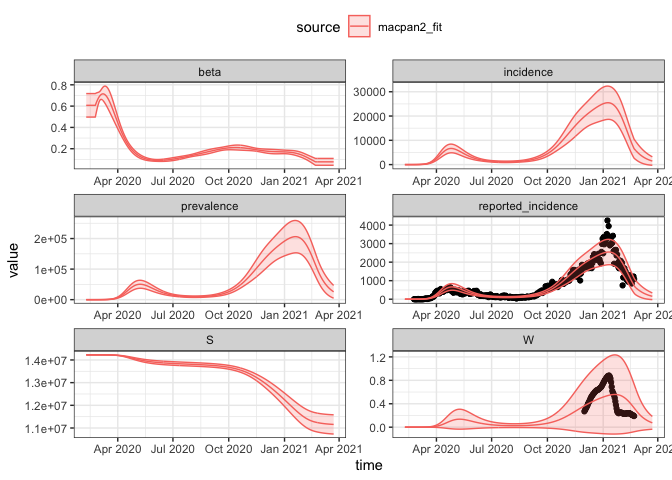
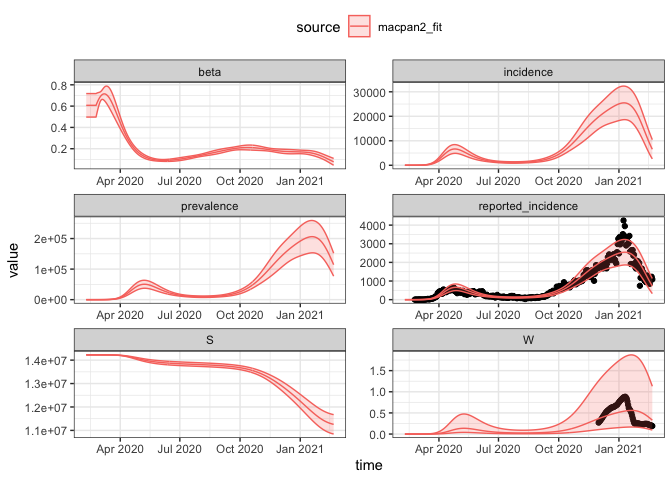
[skip ci] ww update

diff --git a/inst/starter_models/ww/README.md b/inst/starter_models/ww/README.md
@@ -12,7 +12,6 @@ Jennifer Freeman, Steve Walker
 -   <a href="#calibration" id="toc-calibration">Calibration</a>
     -   <a href="#observed-data-prep" id="toc-observed-data-prep">Observed Data
         Prep</a>
-    -   <a href="#time-bounds" id="toc-time-bounds">Time Bounds</a>
     -   <a href="#calibration-model-specification"
         id="toc-calibration-model-specification">Calibration Model
         Specification</a>
@@ -183,14 +182,6 @@ obs_data = (covid_on
 )
 ```
 
-## Time Bounds
-
-``` r
-burn_in_period  = 15 ## number of days before the data start to begin the simulations
-forecast_period = 30 ## number of days after the data end to make forecasts
-time_bounds = mp_sim_offset(burn_in_period, forecast_period, "daily")
-```
-
 ## Calibration Model Specification
 
 Update model specification to include additional components required for
@@ -243,7 +234,7 @@ focal_model = (
      , report_prob_name = "report_prob"
   )
 
-  # add time-varying transmission
+  # decompose beta for time-varying transmission
   |> mp_tmb_insert(phase = "during"
      , at = 1L
      , expressions = list(beta ~ beta0 * beta1 * beta2)
@@ -257,6 +248,9 @@ focal_model = (
      , default  = list(beta_changes      = c(1))
      , integers = list(beta_changepoints = c(0))
   )
+  
+  # log transform W
+  |> mp_tmb_insert_trans("W", mp_log)
 )
 ```
 
@@ -298,14 +292,14 @@ focal_calib = mp_tmb_calibrator(
     # return these trajectories so that they can be
     # explored after fitting
   , outputs = c(
-        "reported_incidence", "W", "beta"
-      , "prevalence", "incidence", "S"
+        "reported_incidence", "beta"
+      , "prevalence", "incidence", "S", "log_W"
     )
   
     # update defaults with macpan1.5 wastewater model defaults
   , default = macpan1.5_defaults
   
-  , time = time_bounds
+  , time = mp_sim_offset(15, 0, "daily")
 )
 # converges
 mp_optimize(focal_calib)
@@ -336,7 +330,7 @@ mp_optimize(focal_calib)
 
 ## Explore Fits
 
-Get fitted data and coefficients.
+The fitted model parameters, fitted values, and confidence intervals.
 
 ``` r
 macpan2_fit = mp_trajectory_sd(focal_calib, conf.int = TRUE)
@@ -371,19 +365,6 @@ print(fitted_coefs)
 Plot the fitted values.
 
 ``` r
-macpan1.5_fit = (macpan1.5$sim
-  |> group_by(Date, state)
-  # summarize to ignore vaccination status
-  |> summarise(value = sum(value))
-  |> ungroup()
-  |> rename(time = Date, matrix = state)
-  |> filter(matrix %in% c("conv", "W"))
-  |> filter(!is.na(value))
-  |> mutate(matrix = ifelse(matrix == "conv", "reported_incidence", matrix))
-)
-#> `summarise()` has grouped output by 'Date'. You can override using the `.groups`
-#> argument.
-
 plot_fit = function(obs_data, sim_data, ncol = 1L) {
   (ggplot(obs_data, aes(time, value))
    + geom_point()
